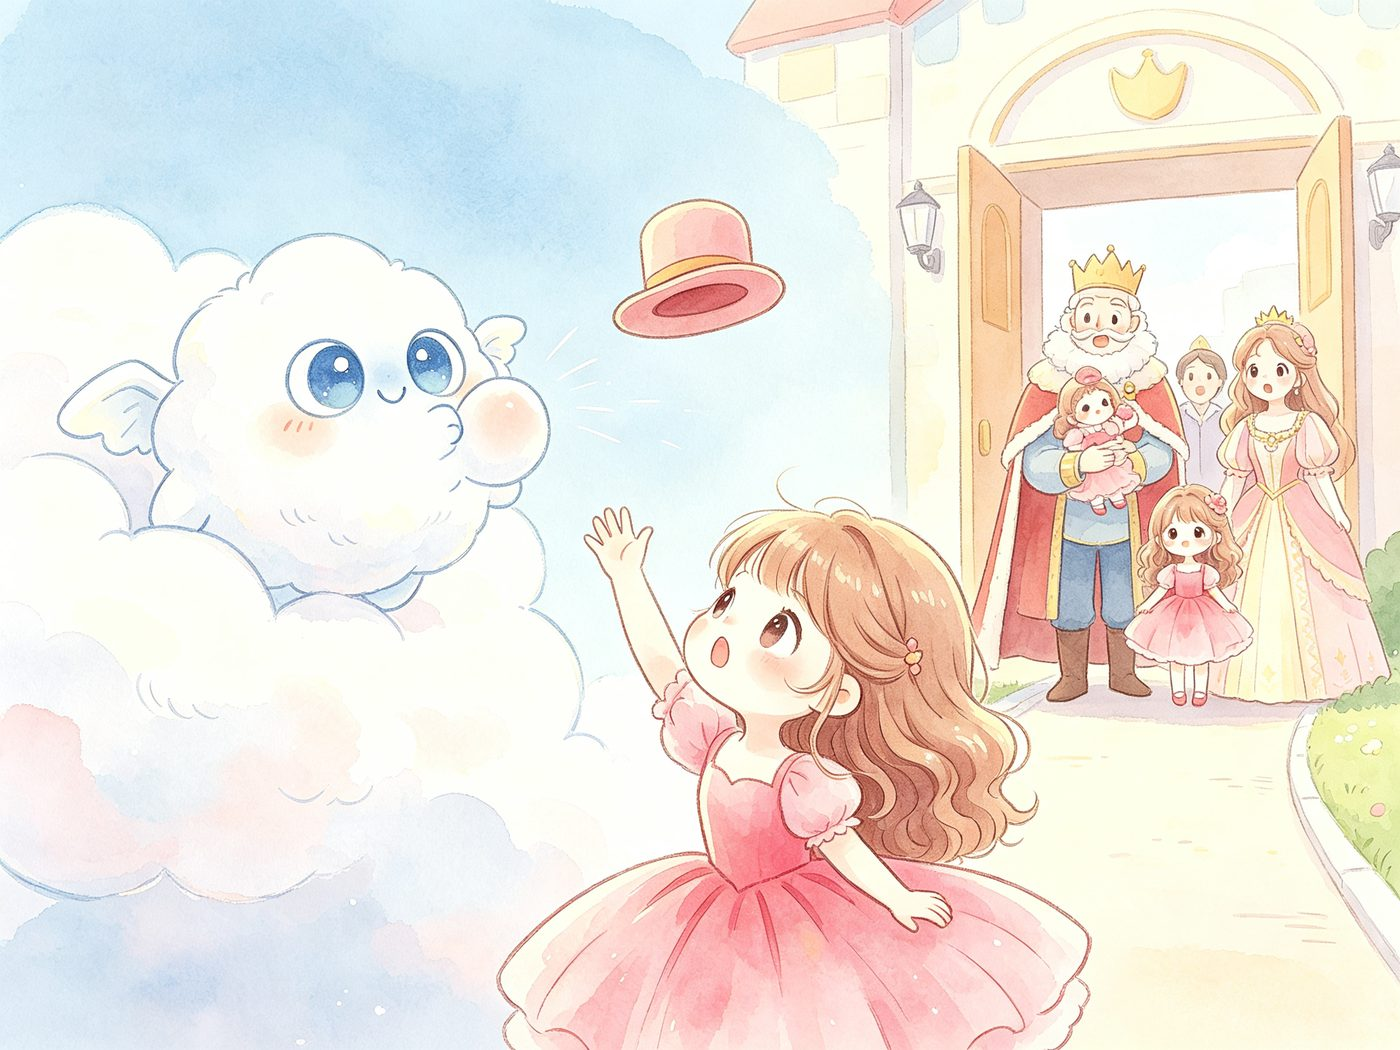
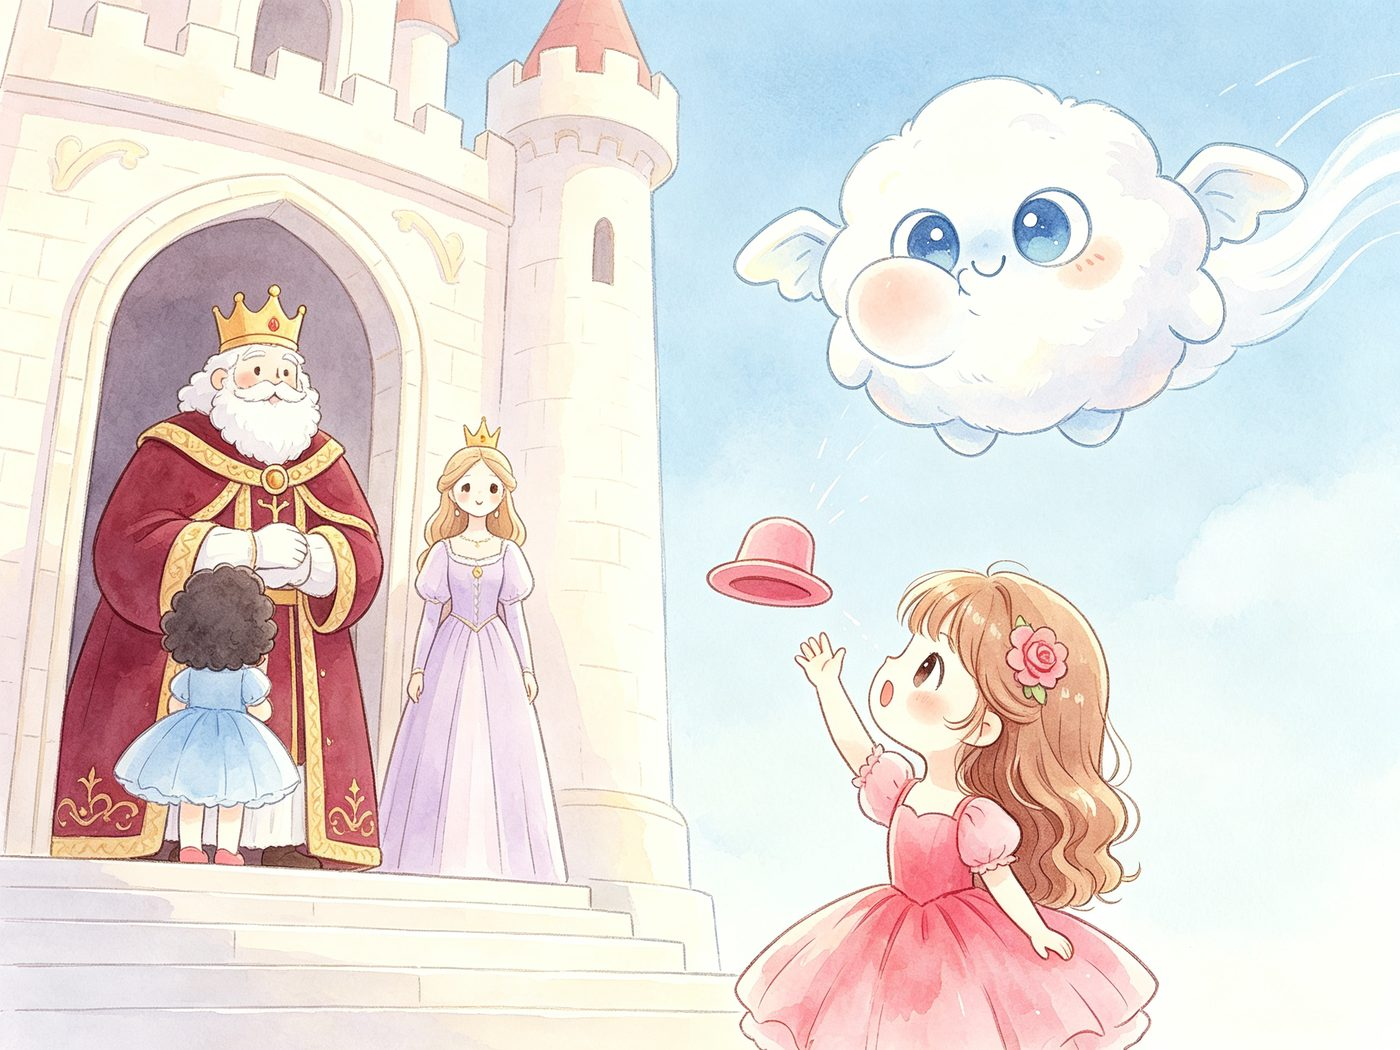
调整图片形象

diff --git a/series/rose-princess/ep07-kindergarten/prompts.md b/series/rose-princess/ep07-kindergarten/prompts.md
@@ -171,7 +171,7 @@
 
 **配图 Prompt**：
 ```
-儿童绘本插画，马卡龙柔和色系，水彩晕染画风，Q版软萌人物，线条圆润无棱角，光影温柔，画面干净简洁，高清适合打印。幼儿园门口回家的小路上，忽然起风。半侧面仰视中景：软萌可爱的云朵状小妖怪（白色毛茸茸云朵身体、圆圆大眼睛、蓝色小脸、带小翅膀，笑容顽皮，不恐怖）从云朵后探出脑袋，鼓起腮帮子朝一顶飞在半空的小圆帽吹气；浅棕色微卷长发（披在肩后、不是马尾辫）、粉红蓬蓬裙的蔷薇公主（姐姐）仰头看着自己的小圆帽被吹上天，踮脚伸手去够，表情惊讶。远景处，正常华丽人形形象的国王抱着小宝贝玫瑰公主、王后站在一旁，一起惊讶地望向这边（远景，只作背景）。构图重点：风妖怪吹飞了姐姐的帽子。画面近景只有风妖怪和蔷薇公主两位角色，远景有国王、王后、小宝贝（小宝贝只出现一次，禁止小狗、禁止额外角色）。严格保持与参考图中角色相同的发型、发色、服装颜色与造型。
+儿童绘本插画，马卡龙柔和色系，水彩晕染画风，Q版软萌人物，线条圆润无棱角，光影温柔，画面干净简洁，高清适合打印。幼儿园门口回家的小路上，忽然起风。半侧面仰视中景：软萌可爱的云朵状小妖怪（白色毛茸茸云朵身体、圆圆大眼睛、蓝色小脸、带小翅膀，笑容顽皮，不恐怖）从云朵后探出脑袋，鼓起腮帮子朝一顶飞在半空的小圆帽吹气；浅棕色微卷长发（披在肩后、不是马尾辫）、粉红蓬蓬裙的蔷薇公主（姐姐）仰头看着自己的小圆帽被吹上天，踮脚伸手去够，表情惊讶。远景处，正常华丽人形形象的国王抱着小宝贝玫瑰公主（黑发蓝裙）、王后站在一旁，一起惊讶地望向这边（远景，只作背景）。构图重点：风妖怪吹飞了姐姐的帽子。画面近景只有风妖怪和蔷薇公主两位角色，远景有国王、王后、小宝贝（小宝贝只出现一次，禁止小狗、禁止额外角色）。严格保持与参考图中角色相同的发型、发色、服装颜色与造型。
 ```
 
 ---
